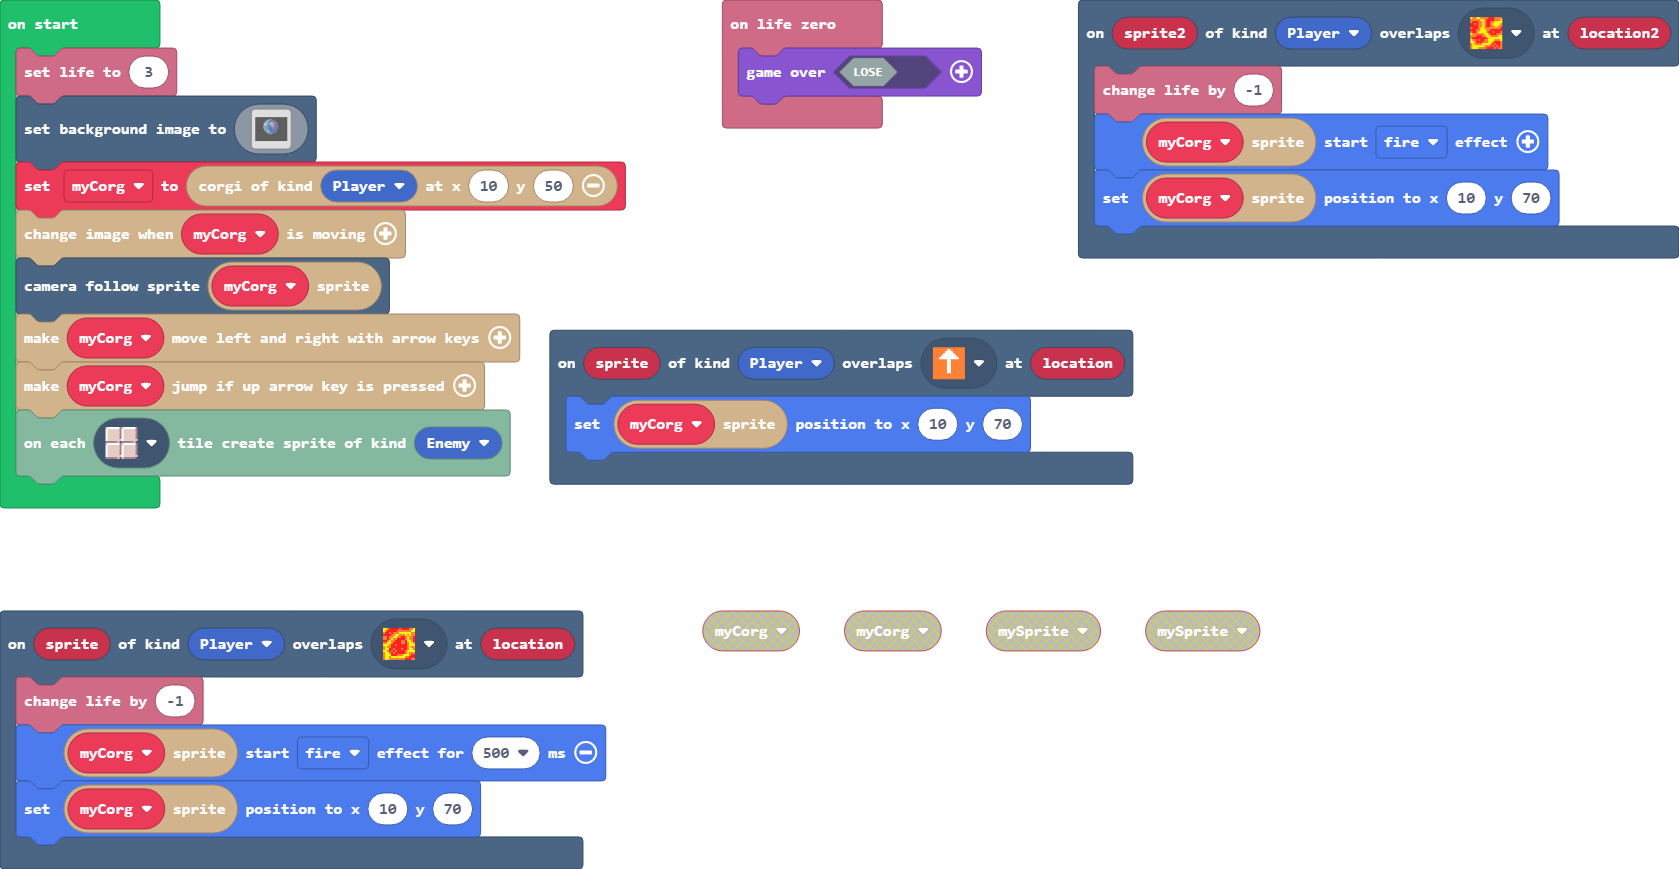
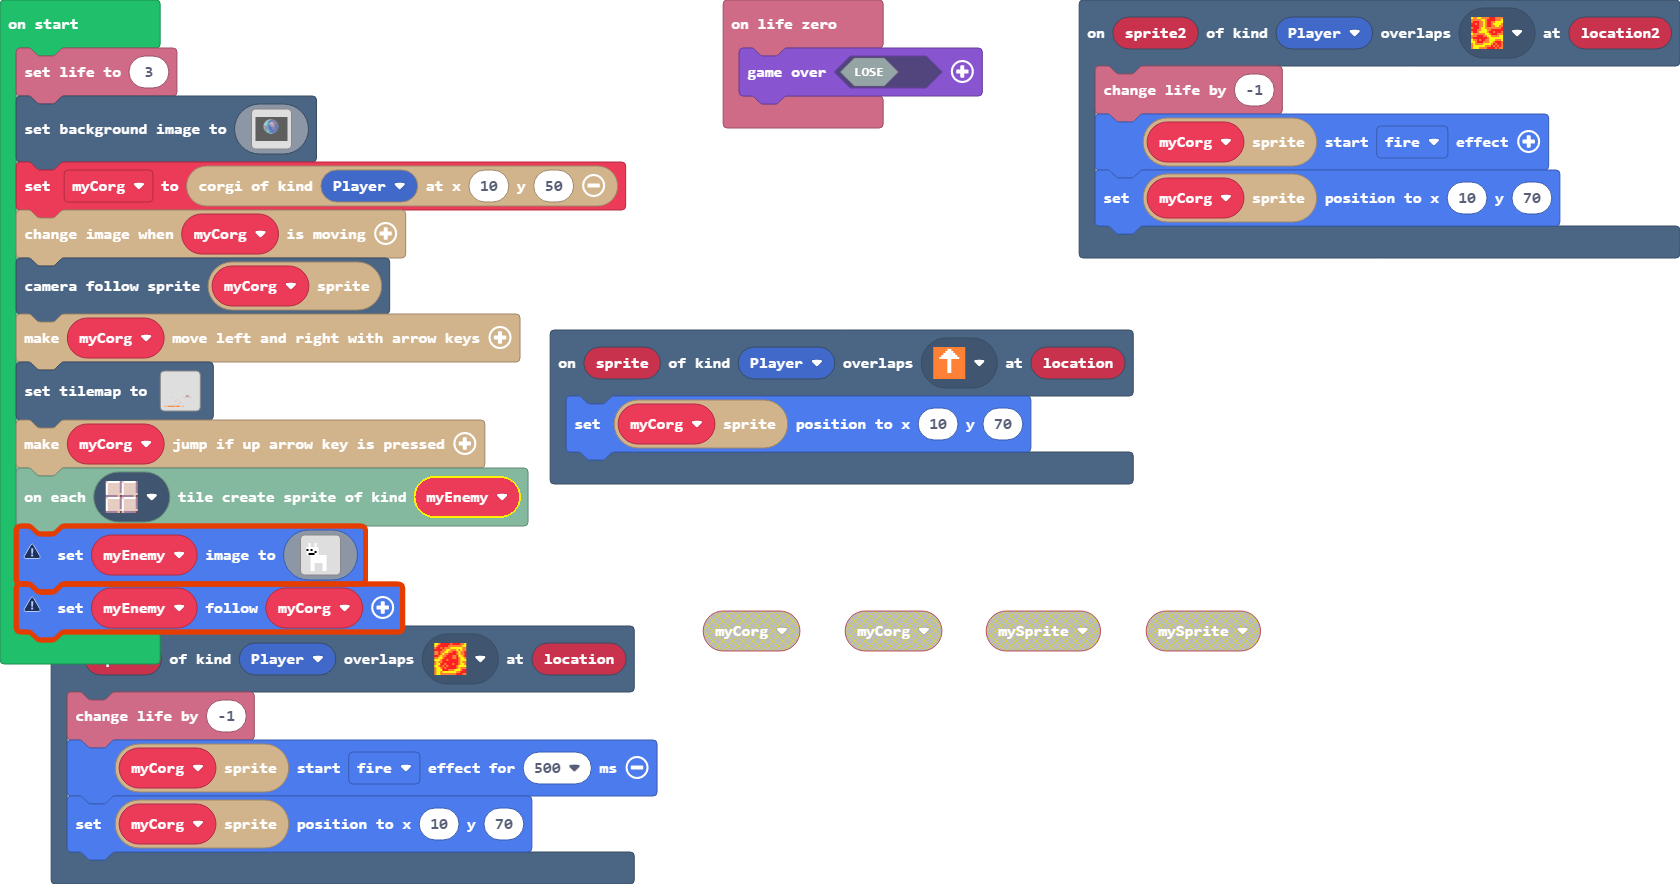
2 litre machine broke, we got 1 litre tho

diff --git a/images.g.ts b/images.g.ts
@@ -228,6 +228,25 @@ ffffffffffffffffffffffffffffffffffffffffffffffffffffffffffffffffffffffffffffffff
 ffffffffffffffffffffffffffffffffffffffffffffffffffffffffffffffffffffffffffffffffffffffffffffffffffffffffffffffffffffffffffffffffffffffffffffffffffffffffffffffff
 ffffffffffffffffffffffffffffffffffffffffffffffffffffffffffffffffffffffffffffffffffffffffffffffffffffffffffffffffffffffffffffffffffffffffffffffffffffffffffffffff
 `;
+            case "image2":
+            case "what":return img`
+. . . . . . . . . . . . . . . . 
+. . . . . . . . . . . . . . . . 
+. . 1 . . 1 . . . . . . . . . . 
+. . 1 . . 1 . . . . . . . . . . 
+. 1 1 1 1 1 1 . . . . . . . . . 
+. f 1 f 1 1 1 . . . . . . . . . 
+. 1 1 1 1 f 1 . . . . . . . . . 
+. 1 f f f 1 1 . . . . . . . . . 
+. . . 1 1 1 1 1 1 1 1 . . . . . 
+. . . 1 1 1 1 1 1 1 1 . . . . . 
+. . . 1 1 1 1 1 1 1 1 . . . . . 
+. . . 1 1 1 1 1 1 1 1 . . . . . 
+. . . 1 1 . . . . 1 1 . . . . . 
+. . . 1 1 . . . . 1 1 . . . . . 
+. . . 1 1 . . . . 1 1 . . . . . 
+. . . 1 1 . . . . 1 1 . . . . . 
+`;
         }
         return null;
     })

diff --git a/main.ts b/main.ts
@@ -14,6 +14,7 @@ scene.onOverlapTile(SpriteKind.Player, sprites.dungeon.hazardLava1, function (sp
 info.onLifeZero(function () {
     game.over(false)
 })
+let myEnemy = 0
 let myCorg: Corgio = null
 info.setLife(3)
 scene.setBackgroundImage(assets.image`spice`)
@@ -23,4 +24,6 @@ scene.cameraFollowSprite(myCorg.sprite)
 myCorg.horizontalMovement()
 tiles.setTilemap(tilemap`level1`)
 myCorg.verticalMovement()
-tiles.createSpritesOnTiles(sprites.dungeon.floorLight0, SpriteKind.Enemy)
+tiles.createSpritesOnTiles(sprites.dungeon.floorLight0, myEnemy)
+myEnemy.setImage(assets.image`what`)
+myEnemy.follow(myCorg)
